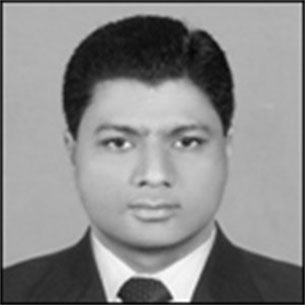
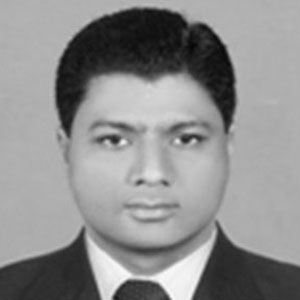
Added image to teacher4

diff --git a/index.html b/index.html
@@ -524,11 +524,11 @@
             <div class="col-md-3 col-sm-6">
               <div class="probootstrap-teacher text-center probootstrap-animate">
                 <figure class="media">
-                  <img src="img/person_7.jpg" alt="Free Bootstrap Template by ProBootstrap.com" class="img-responsive">
+                  <img src="img/majhi_sir.jpg" alt="Dr.Santosh Kumar Majhi" class="img-responsive">
                 </figure>
                 <div class="text">
-                  <h3>Jessa Sy</h3>
-                  <p>Physics Teacher</p>
+                  <h3>Dr.Santosh Kumar Majhi</h3>
+                  <p>Assistant Professor</p>
                   <ul class="probootstrap-footer-social">
                     <li class="twitter"><a href="#"><i class="icon-twitter"></i></a></li>
                     <li class="facebook"><a href="#"><i class="icon-facebook2"></i></a></li>
